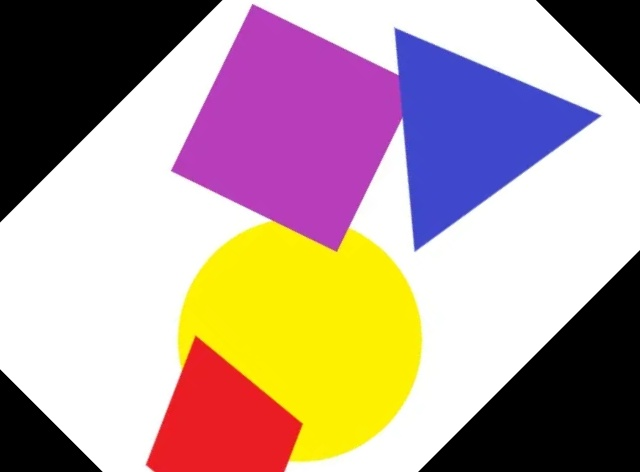
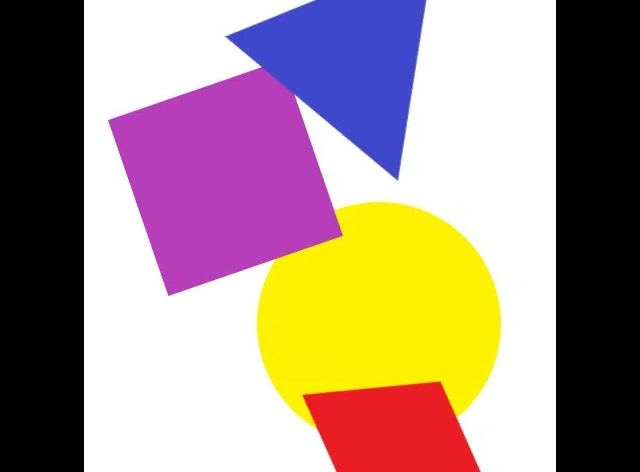
...

diff --git a/ImageRotationTransformation.py b/ImageRotationTransformation.py
@@ -1,11 +1,13 @@
 import cv2 as cv
 import numpy as np
+from matplotlib import pyplot as plt
+
 import os
 
 def read_image(path):
   if not path or not os.path.exists(path):
     return
-  image=cv.imread(path, 1)
+  image=cv.imread(path, -1)
   cv.imshow('Image', image)
   return image
 
@@ -24,12 +26,23 @@ def rotate_image(image: np.ndarray, inp_angle:int):
   cv.imshow('Rotated image', rotated_image)
   cv.waitKey(0)
   cv.imwrite('rotated_image.jpg', rotated_image)
+
+def affine_transform(image: np.ndarray):
+  rows,cols,ch = image.shape
+  pts1 = np.float32([[50,50],[200,50],[50,200]])
+  pts2 = np.float32([[10,100],[200,50],[100,250]])
+  M = cv.getAffineTransform(pts1,pts2)
+  dst = cv.warpAffine(image,M,(cols,rows))
+  plt.subplot(121),plt.imshow(image),plt.title('Input')
+  plt.subplot(122),plt.imshow(dst),plt.title('Output')
+  plt.show()
   
 def main():
   path='media/geometric.jpg'
   image=read_image(path)
   angle=90
   rotate_image(image, angle)
+  affine_transform(image)
 
 
 if __name__=="__main__":
